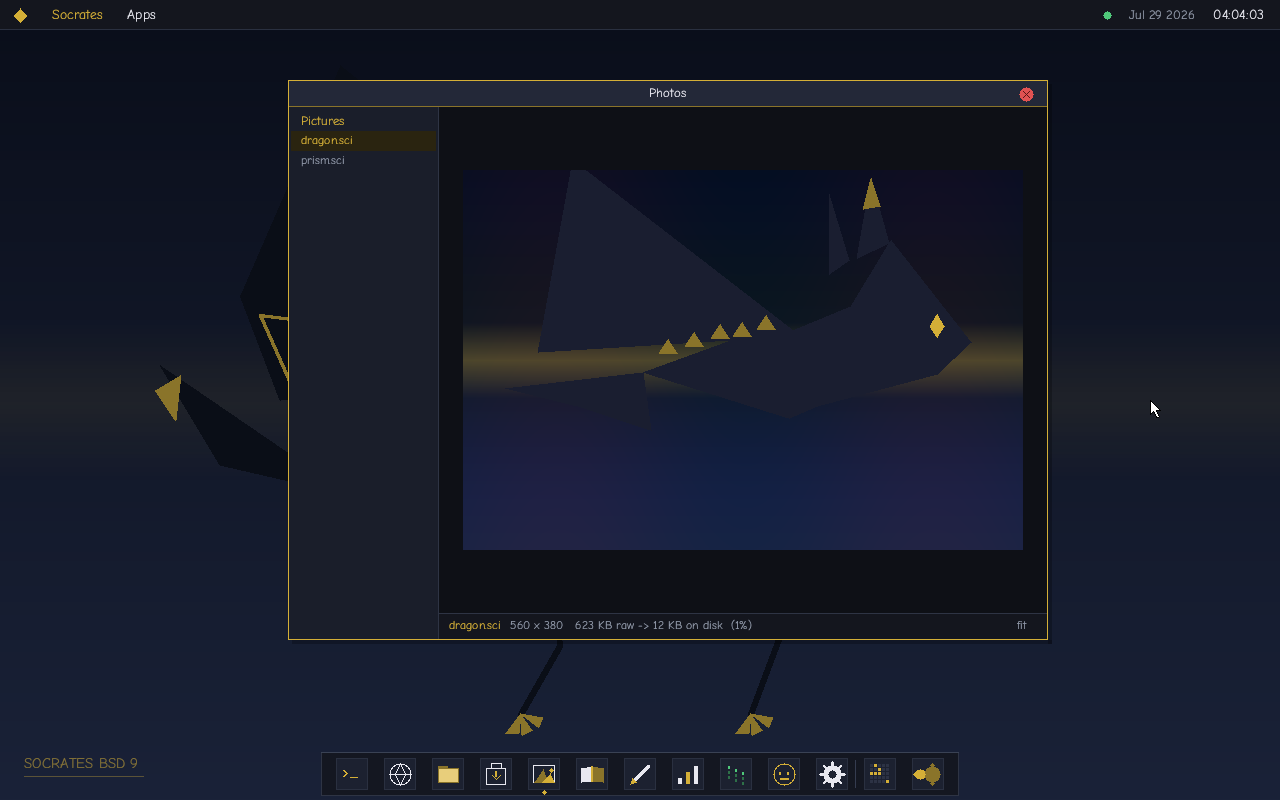
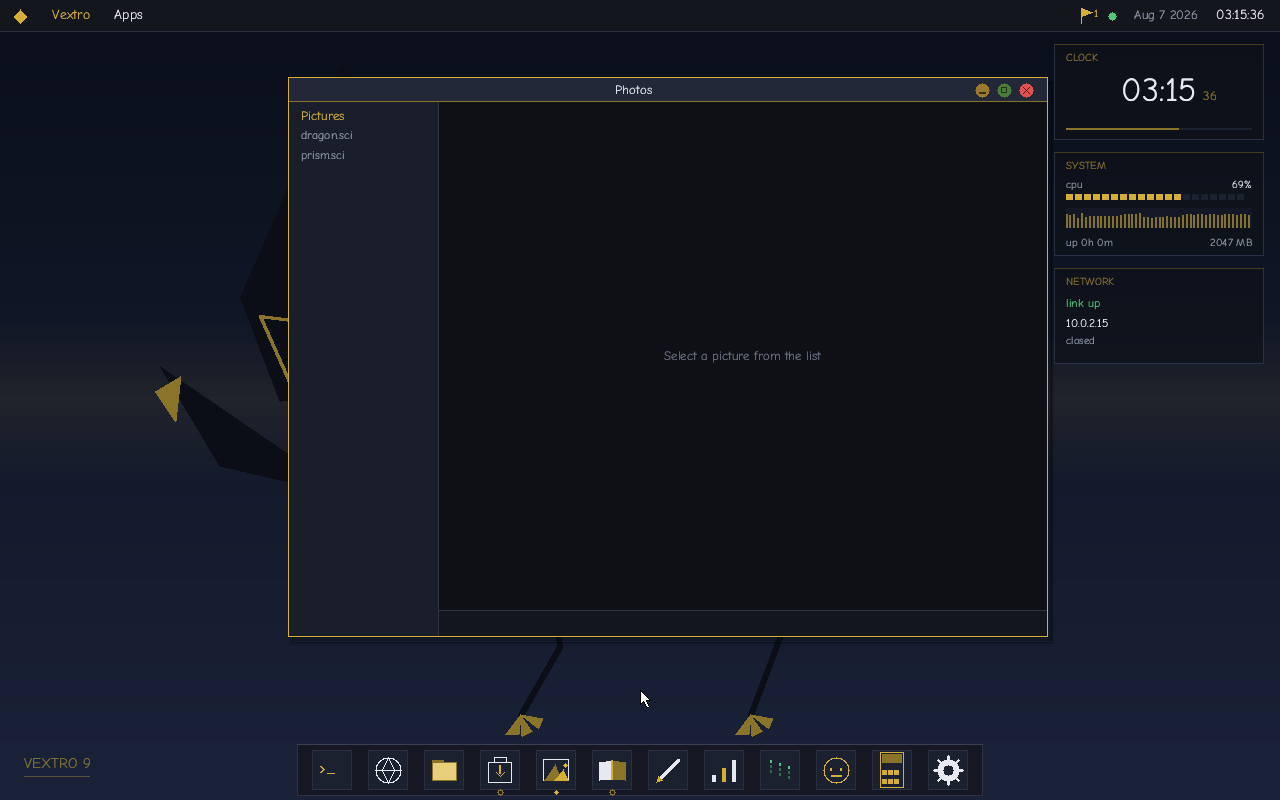
docs: recapture the screenshots under the new name, and stop llm eval lying
Twelve of the README's images still showed the old brand in the menubar,
the terminal prompt and the wallpaper signature -- the rebrand check was
a grep, and a grep cannot see inside a PNG. Worse, login.png had been
given a caption describing salted-SHA-256 accounts while the picture
beside it still showed the single shared keycode it replaced.

Recaptured off the machine: the boot animation mid-burn with the VEXTRO
wordmark being eaten by it, the desktop, the terminal, the browser,
Wikipedia search and an article, the store, Photos, the account gate, and
the Mandelbrot package installed from the store and running.

Two are not recaptured and still show the old name: docs/chat.png and
docs/llm.png. Both need the language model resident, and on emulated
x86_64 the weights take longer to load than a capture run can wait -- four
minutes in, the answer was still at zero per cent. The old images show
the model producing correct output under the old brand; a new one would
have shown it producing garbage under the new one, which is the worse of
the two lies.

Which is how the real bug turned up. `llm eval` never checked whether the
weights were resident. Run before the load finishes, it evaluates against
a buffer of zeros and prints a confident argmax computed from nothing --
in the capture that made it, "the capital of France is" resolved to an
empty token instead of Paris. It now refuses and says why.

diff --git a/src/term.h b/src/term.h
@@ -1122,6 +1122,17 @@ static void term_exec(char *cmdline) {
         }
         if (argc >= 2 && str_eq(argv[1], "eval")) {
             if (argc < 3) { term_print_c("usage: llm eval <token> [pos]\n", 2); return; }
+            /*
+             * Without this the command runs the forward pass against
+             * whatever is in the weight buffer -- zeros, before the load
+             * finishes -- and prints a confident argmax computed from
+             * nothing. Silently wrong is worse than refusing.
+             */
+            if (!llm_weights_loaded()) {
+                term_print_c("no weights resident; run 'llm load' or wait "
+                             "for the model to finish loading\n", 2);
+                return;
+            }
             int32_t tk = 0;
             for (const char *q = argv[2]; *q >= '0' && *q <= '9'; q++) tk = tk * 10 + (*q - '0');
             int pos = 0;
